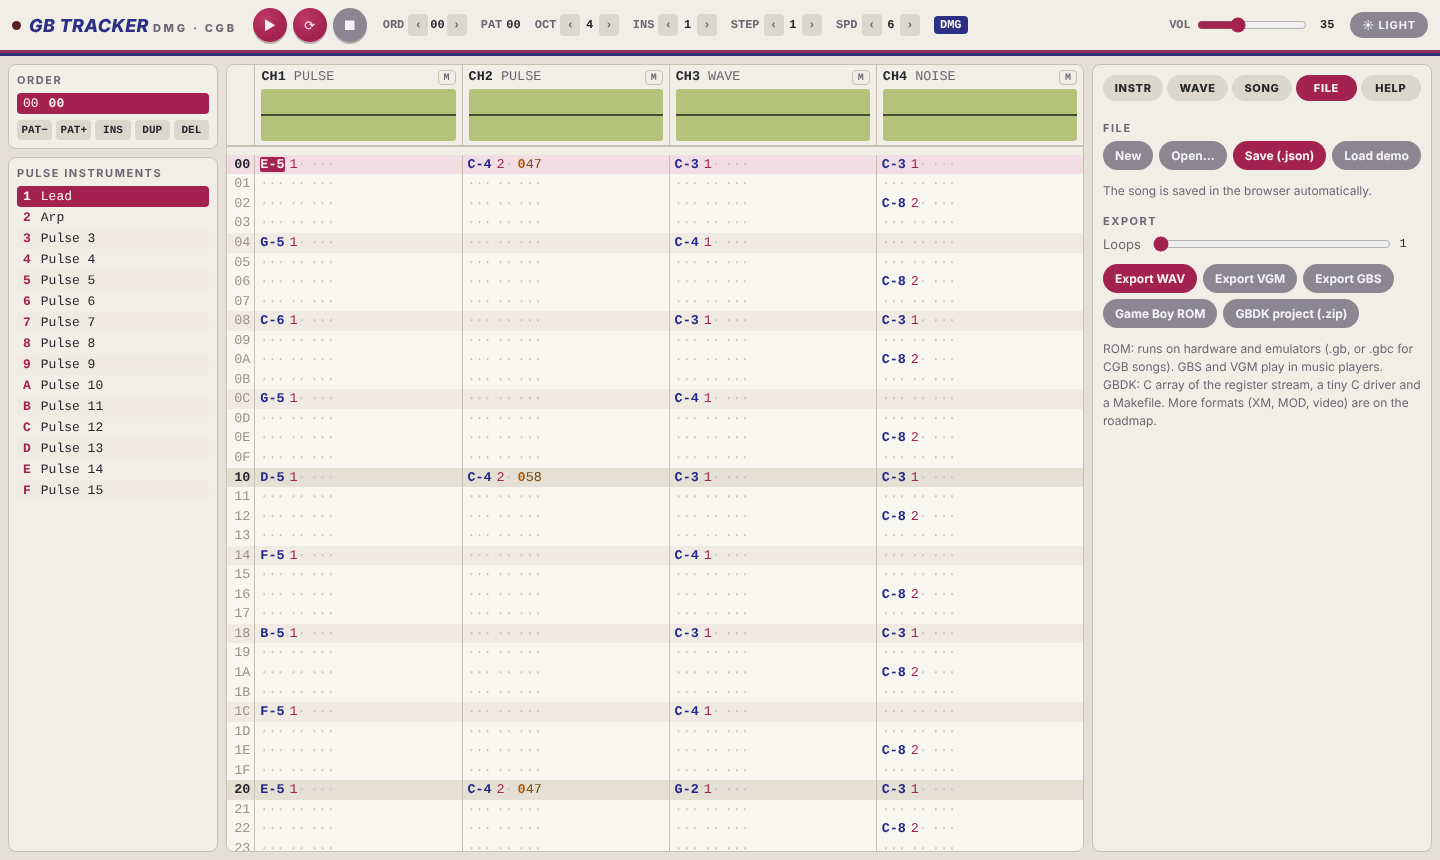
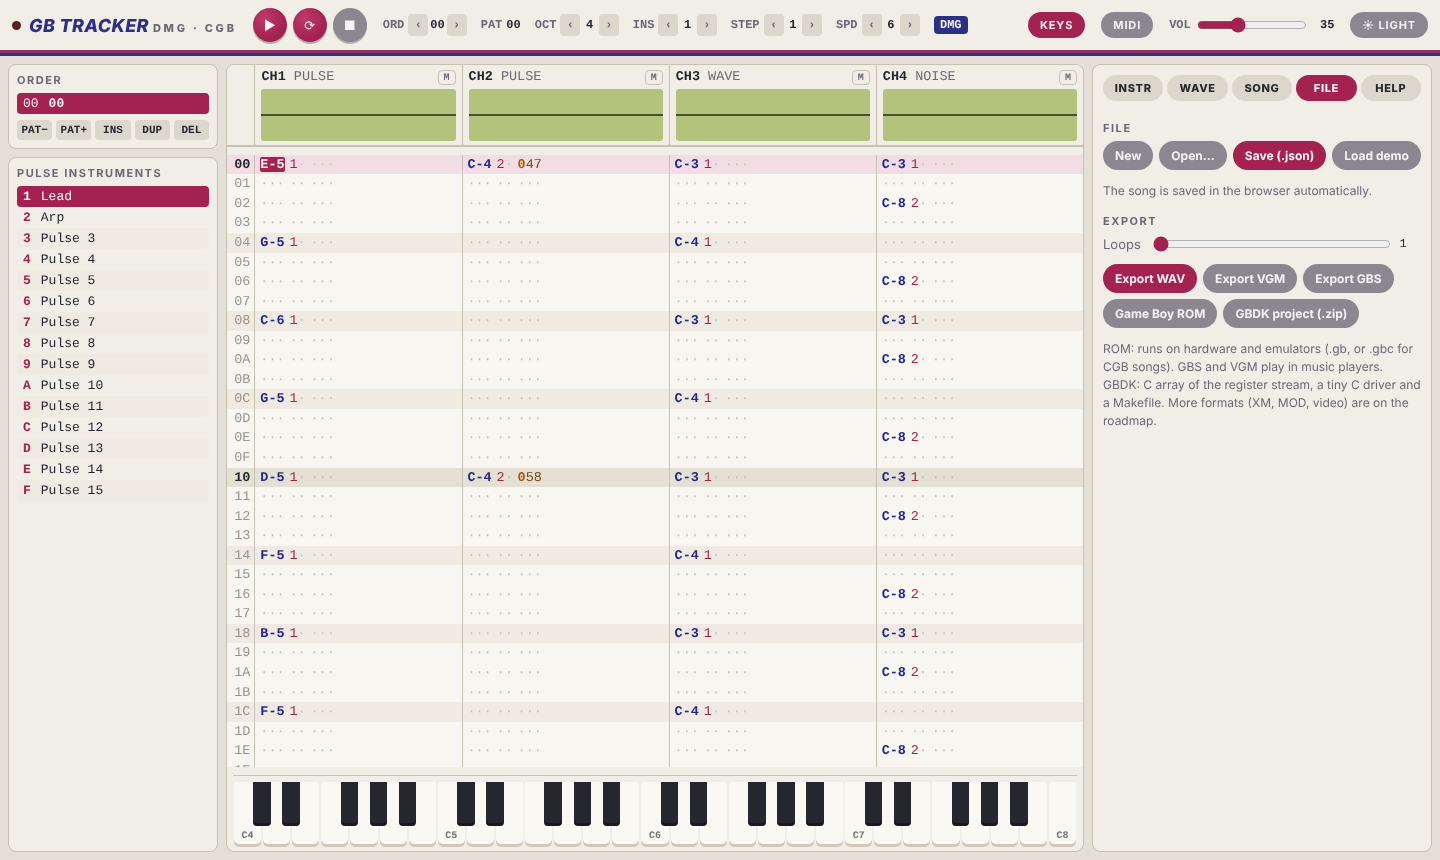
Document the on-screen piano and MIDI input
Covers the KEYS and MIDI toolbar buttons, how piano and MIDI notes are
entered or only previewed, the MIDI note mapping and browser support.
The manual test now also checks the toolbar buttons. Screenshots show
the piano.

Claude-Session: https://claude.ai/code/session_01Bz4qZn1rNZcN4SFtzCkyUw

Changed region(s): [[0.1562, 0.907, 0.75, 0.9977], [0.7188, 0.0, 0.8125, 0.0605]]

diff --git a/tests/docs/manual.test.ts b/tests/docs/manual.test.ts
@@ -38,6 +38,14 @@ describe('manual', () => {
     for (const label of labels) expect(manual, label).toContain(label);
   });
 
+  it('names every toolbar button', () => {
+    const labels = [...mainSource.matchAll(/class="pill-btn" id="[\w-]+" type="button"[^>]*>([^<]+)<\/button>/g)].map(
+      (m) => m[1],
+    );
+    expect(labels.length).toBeGreaterThan(1);
+    for (const label of labels) expect(manual, label).toContain(`**${label}**`);
+  });
+
   it('names every tab and mobile view', () => {
     const tabs = [...mainSource.matchAll(/data-(?:tab|view)="\w+">([^<]+)<\/button>/g)].map((m) => m[1]);
     expect(tabs.length).toBeGreaterThan(5);

diff --git a/docs/MANUAL.md b/docs/MANUAL.md
@@ -16,6 +16,7 @@ sounds right in the tracker sounds the same on hardware, in the exported ROM and
 - [Entering notes and values](#entering-notes-and-values)
 - [Keyboard shortcuts](#keyboard-shortcuts)
 - [Touch and phone use](#touch-and-phone-use)
+- [On-screen piano and MIDI keyboards](#on-screen-piano-and-midi-keyboards)
 - [Song structure: order list and patterns](#song-structure-order-list-and-patterns)
 - [Instruments](#instruments)
 - [Waveforms](#waveforms)
@@ -37,6 +38,8 @@ sounds right in the tracker sounds the same on hardware, in the exported ROM and
 3. With the cursor in a note column, play notes on your computer keyboard: the bottom letter row
    (`Z S X D C V G B H N J M`) is one octave like a piano, the row above (`Q 2 W 3 E R 5 T 6 Y 7 U`) the next
    octave. Each note is written into the pattern and the cursor moves down by the edit step.
+   No computer keyboard? Use the on-screen piano under the pattern, or plug in a MIDI keyboard and press
+   **MIDI**.
 4. Change the current octave with `[` and `]`, the instrument with the **INS** arrows in the toolbar.
 5. Open the **INSTR** tab on the right to shape the sound, **FILE** to save your song or export it.
 
@@ -61,7 +64,9 @@ Your work is saved in the browser automatically after every change.
 | STEP | Edit step: how many rows the cursor moves after an entry (0–16). |
 | SPD | Song speed in ticks per row (1–31), see [Speed and tempo](#speed-and-tempo). |
 | DMG / GBC | Hardware model of the song (change it in the SONG tab). |
-| VOL | Master volume of the browser playback. Exports are not affected. |
+| KEYS | Shows or hides the on-screen piano under the pattern. |
+| MIDI | Turns MIDI input on or off. While on, it shows the number of connected inputs. |
+| VOL | Master volume of the browser playback (default 35). Exports are not affected. |
 | Theme | Cycles between automatic (follows the system), light and dark. |
 
 **Left sidebar**
@@ -75,6 +80,7 @@ Your work is saved in the browser automatically after every change.
 
 - **Channel header** with an oscilloscope and a mute button (**M**) for each of the four channels.
 - **Pattern** with one row per line and four channels side by side.
+- **Piano** under the pattern (toggle with **KEYS**), see [On-screen piano](#on-screen-piano-and-midi-keyboards).
 
 **Right sidebar tabs**
 
@@ -194,8 +200,8 @@ On a phone the tracker shows one view at a time. Switch with the bar at the bott
 
 Tap a field in the pattern to put the cursor there. The keypad below the pattern changes with the column:
 
-- On a **note column** it shows the twelve notes of the current octave, **OCT−** / **OCT+**, **OFF** (note off)
-  and **DEL**.
+- On a **note column** it shows **OCT−** / **OCT+**, **OFF** (note off) and **DEL**, plus the twelve notes of the
+  current octave when the on-screen piano is hidden. With the piano shown, play the notes on the piano.
 - On **other columns** it shows the hex digits `0`–`F` and **DEL**.
 - The bottom row moves the cursor: **◀ ▶** previous / next column, **▲ ▼** previous / next row.
 
@@ -203,6 +209,42 @@ Notes sound while you hold the key. On narrow screens the pattern scrolls sidewa
 with it.
 
 Tip: add the page to your home screen for a full-screen tracker without browser bars.
+
+## On-screen piano and MIDI keyboards
+
+### On-screen piano
+
+**KEYS** in the toolbar shows or hides a piano keyboard under the pattern. The tracker remembers the setting.
+
+- The piano starts at C of the current octave (**OCT**, `[` `]`) and shows as many octaves as fit the
+  width of the window (up to 4).
+- With the cursor on a **note column**, pressing a key enters the note and plays it, like a note key on the
+  computer keyboard. On any other column the key only plays the note, so you can try out melodies without
+  changing the pattern.
+- Sliding across the keys (with the mouse button or finger held) plays each key you pass, without entering
+  anything. Only the first key you pressed is entered.
+- The note sounds while you hold the key, with the current instrument on the channel under the cursor. The key
+  being played is highlighted.
+
+### MIDI keyboards
+
+Any MIDI keyboard or controller connected to the computer (USB, or Bluetooth MIDI set up in the system) can play
+and enter notes.
+
+1. Connect the keyboard, then press **MIDI** in the toolbar. The browser asks for permission the first time.
+2. The button now shows the number of inputs, for example **MIDI 1**. Hover over it to see their names.
+   Devices plugged in later are picked up automatically.
+3. Play: notes follow the same rules as the on-screen piano. On a note column a key enters the note, elsewhere it
+   only plays it. A note sounds until you release all keys.
+
+MIDI listens on all inputs and all MIDI channels; velocity is ignored, the volume comes from the instrument.
+MIDI note 60 (middle C) is **C-4** in the tracker, so the tracker's range C-2 to B-8 is MIDI 36 to 119; notes
+outside it are ignored.
+
+The tracker remembers that MIDI was on and turns it on again next time. Press **MIDI** again to turn it off.
+
+Web MIDI works in Chrome, Edge, Opera and Firefox on desktop and in Chrome on Android. Safari (macOS and iOS)
+does not support it; the button then explains this when you hover over it or press it.
 
 ## Song structure: order list and patterns
 
@@ -520,7 +562,6 @@ These are planned and listed in the [roadmap](https://github.com/wirehack7/Gameb
 - Video export with scopes and scrolling patterns, more audio formats
 - Undo/redo, block copy and paste
 - Instrument macros (per-tick tables)
-- MIDI input and an on-screen piano keyboard
 - Offline use as an installable app (PWA)
 
 This manual is updated together with the tracker. Found a mistake or something missing? Open an issue at
